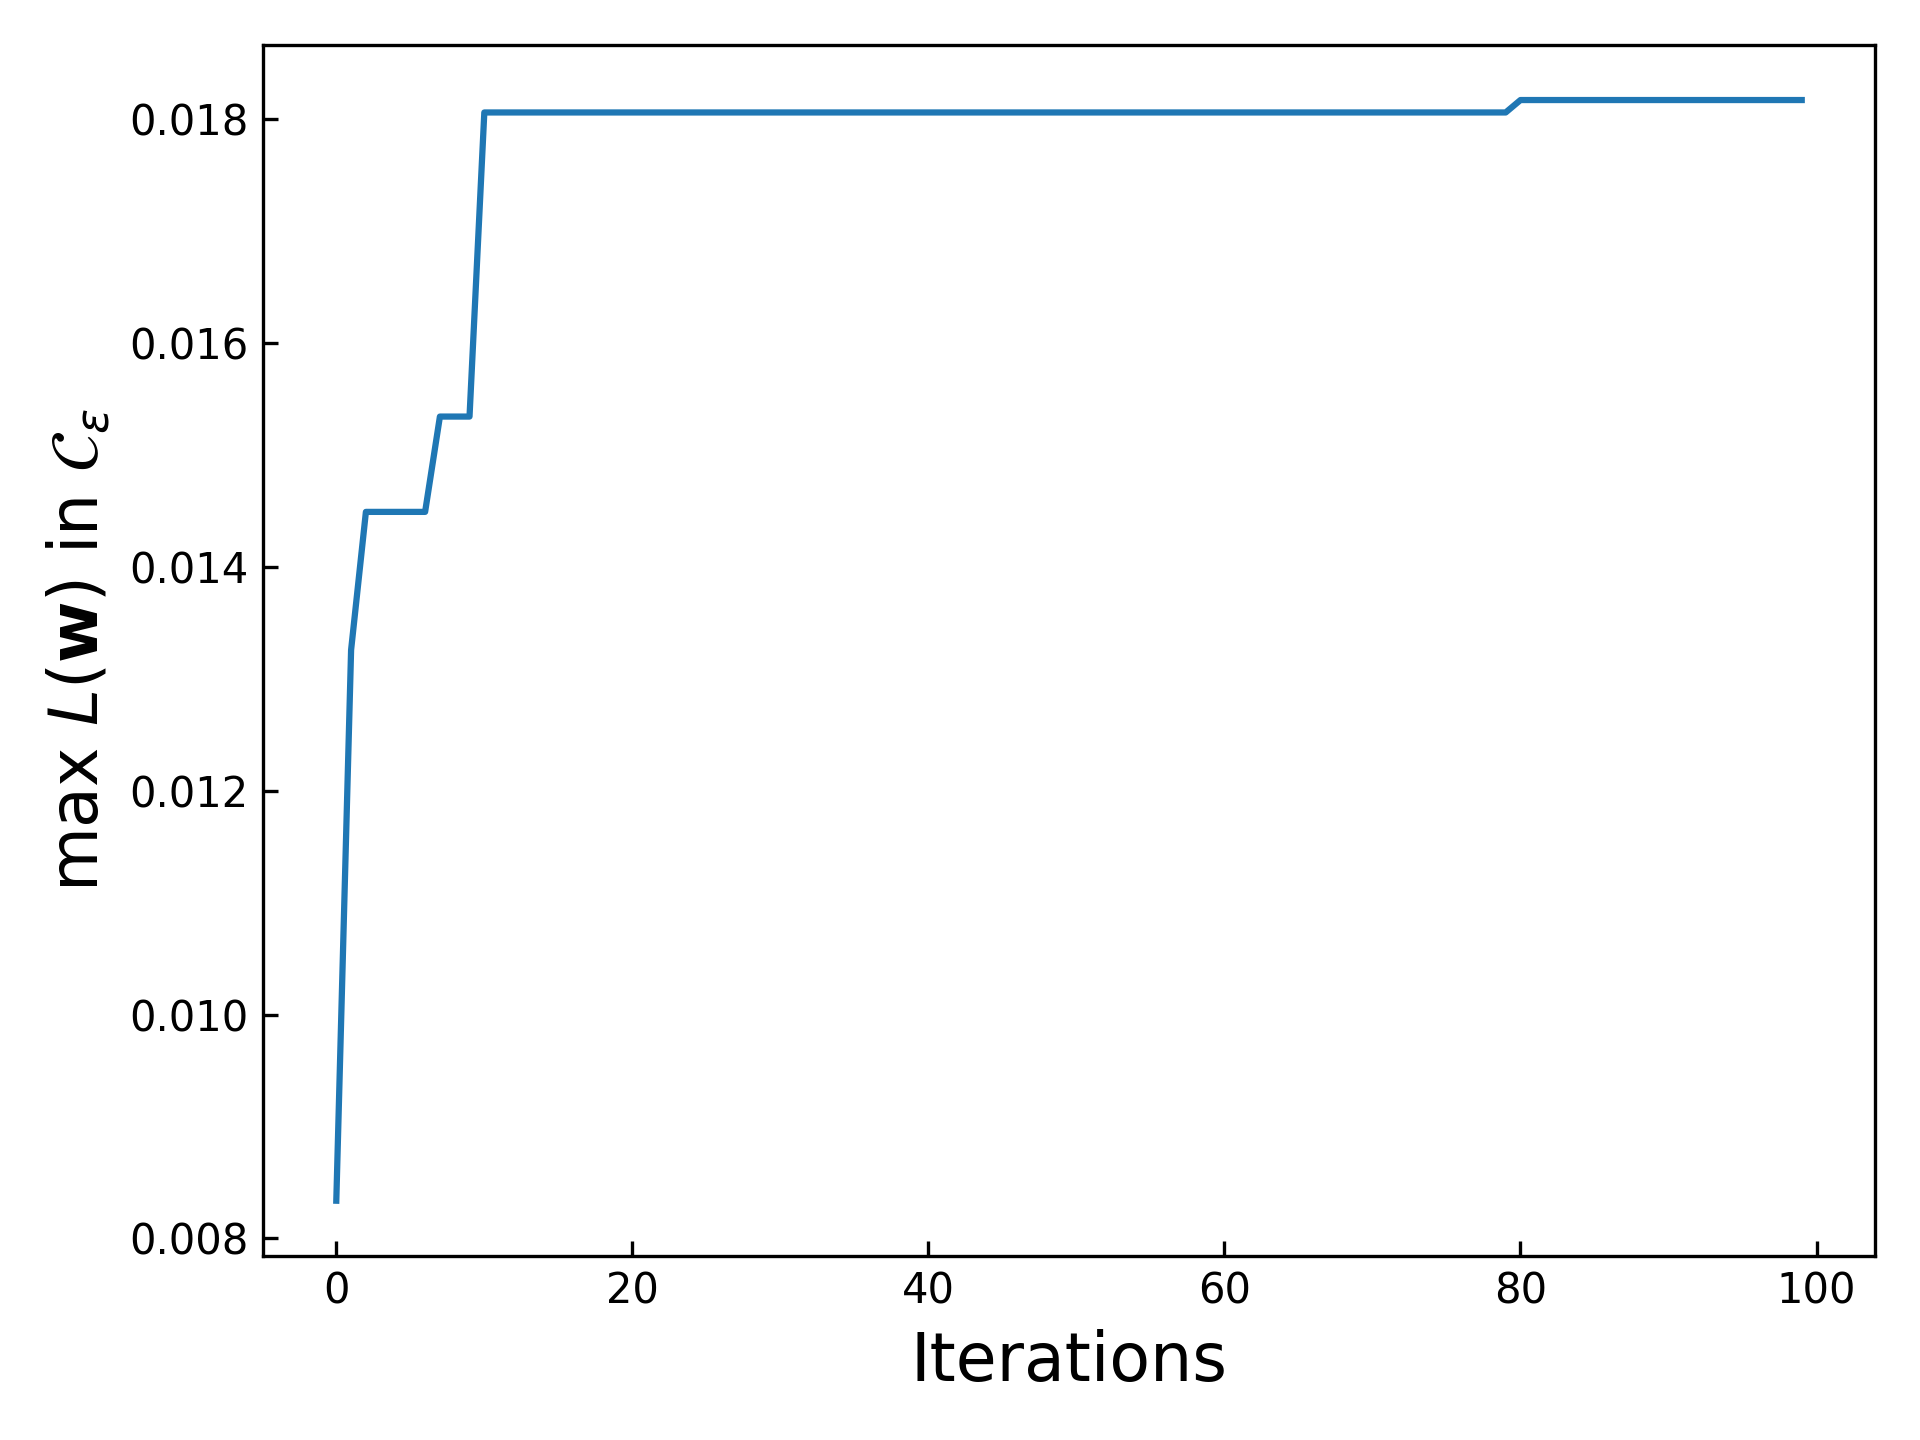
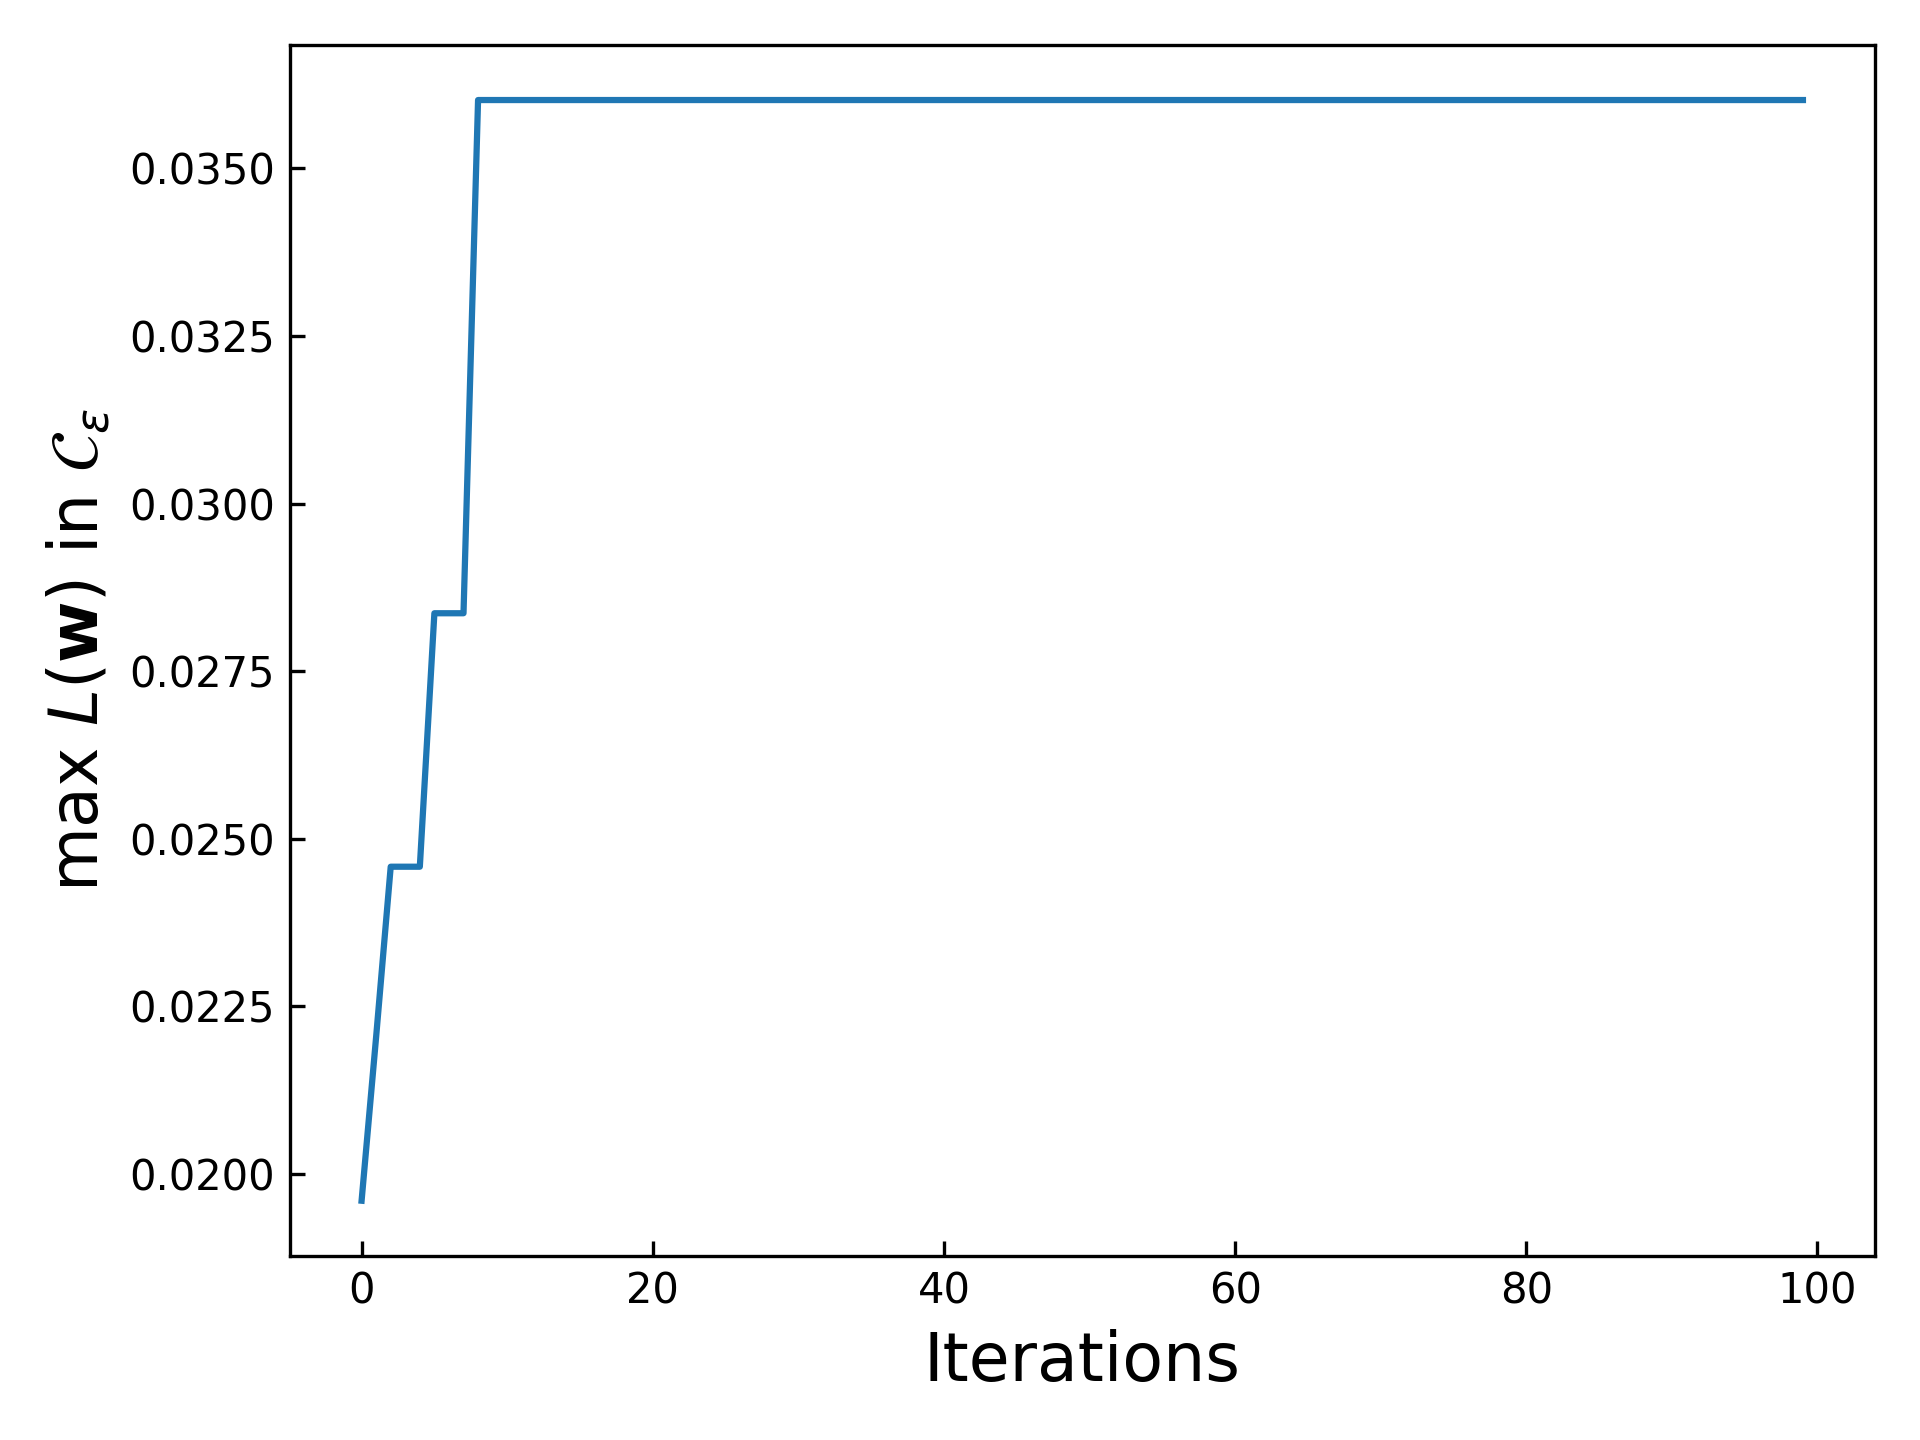
update pics

diff --git a/sharpness.py b/sharpness.py
@@ -103,7 +103,7 @@ class Sharpness(object):
         max_value = 0
         max_value_list = []
         if opt_mtd == 'SGD':
-            optimizer = optim.SGD(net.parameters(), lr=5e-3)
+            optimizer = optim.SGD(net.parameters(), lr=1e-1)
             # Here lr should be large enough to make sure
             # we can find the maximum value. Don't worry
             # about the box limit. The box has been well

diff --git a/main.py b/main.py
@@ -416,6 +416,7 @@ if __name__ == '__main__':
                     )
             sharpness_one_off = S.sharpness(opt_mtd=config.sharpness_method)
             print('The sharpness one_off (log10):', np.log10(sharpness_one_off))
+            np.save('sharpness_%d.npy'%args.sample, np.log10(sharpness_one_off))
 
         if config.robustness_one_off == True:
             R = Robustness(net, trainset_genuine, device)
